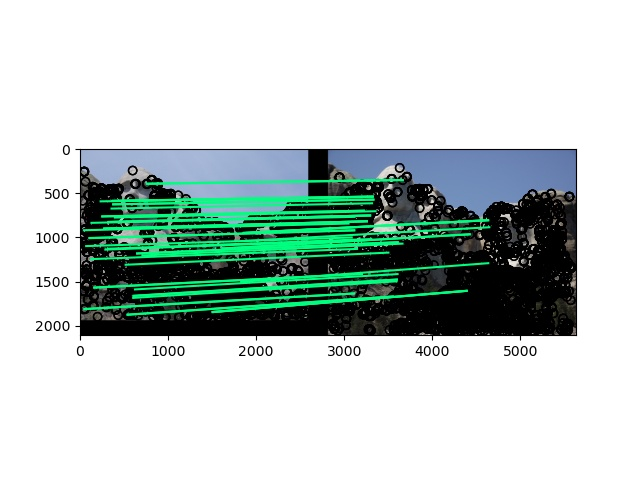
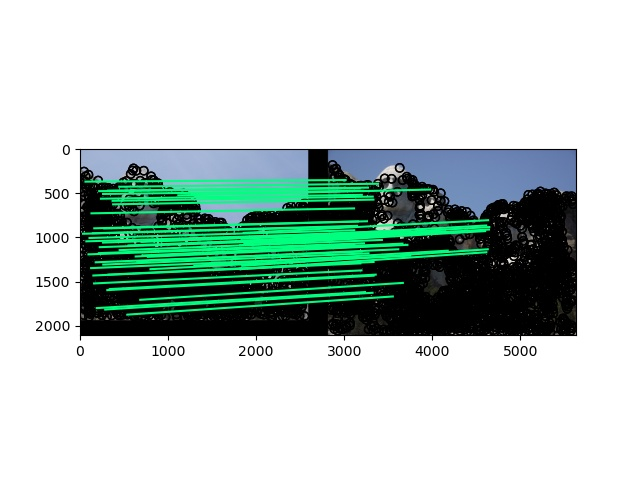
DONE T.T

Changed region(s): [[0.125, 0.3125, 0.9062, 0.7188], [0.8125, 0.5625, 0.9062, 0.6875], [0.875, 0.5, 0.9062, 0.5312]]

diff --git a/Local Feature Matching/code/student.py b/Local Feature Matching/code/student.py
@@ -23,17 +23,10 @@ def getSobelFilter(axis = 1):
                         [0, 0, 0],
                         [-1, -2, -1]])
 
-def getDistanceMatrix(features1, features2, featureNumber1, featureNumber2):
-    expandedFeatures1 = np.repeat(features1, repeats = featureNumber2, axis = 0)
-    expandedFeatures1 = expandedFeatures1 - np.tile(features2, (featureNumber1, 1))
-
-    expandedFeatures1 = expandedFeatures1 ** 2
-    return np.sqrt(expandedFeatures1.sum(axis = 1).reshape((featureNumber1, featureNumber2)))
-
 def getDistanceArray(features1, features2):
     temp = features2 -features1
     temp = temp ** 2
-    return np.sqrt(np.sum(temp, axis=1))
+    return np.sqrt(np.sum(temp, axis = 1))
 
 def getNormalizedPatches(image, x, y, featureWidth = 16):
     rowNumber = image.shape[0]
@@ -76,7 +69,7 @@ def getScaleInvariantFeature(image, x, y, featureWidth = 16):
     for i in range(8):
         imageOctave[i, :] = np.array(convolve2d(image, sobelFilterOctave[i], mode = 'same'))
 
-    print("AAAAAAA")
+
     imageOctave = np.array([convolve2d(x, gaussianFilter, mode = 'same') for x in imageOctave])
     features = np.ones((len(x), 128), dtype = 'float32')
     for i in range(len(x)):
@@ -89,23 +82,9 @@ def getScaleInvariantFeature(image, x, y, featureWidth = 16):
             bottomBound = np.uint16(y[i]) + offset
             featureWindow = np.array(imageOctave[:, topBound : bottomBound, leftBound : rightBound])
             histogram = np.array([])
-            # for j in range(8):
-            #     layerImage = np.array(imageOctave[j])
-            #     featureWindow = np.array(layerImage[topBound : bottomBound, leftBound : rightBound])
-            #     # featureWindow = np.split(featureWindow, 4, axis=0)
-            #     # featureWindow = np.array([np.split(x, 4, axis = 1) for x in featureWindow])
-            #     # histogramPart = (np.array([[y.sum() for y in x] for x in featureWindow])).flatten()
-            #     # for k in range(16):
-            #     #     histogram[0, j + 8 * k] = histogramPart[k]
-            #     c = j
-            #     for m in range(4):
-            #         for n in range(4):
-            #             cellWindow = featureWindow[4*m : 4*m + cell, 4*n : 4*n + cell]
-            #             histogram[0, c] = np.sum(cellWindow)
-            #             c = c + 8
             for m in range(4):
                 for n in range(4):
-                    cellWindow = np.sum(np.sum(featureWindow[:, 4*m : 4 *m + cell, 4*n:4*n+cell], axis = 1), axis = 1).flatten()
+                    cellWindow = np.sum(np.sum(featureWindow[:, 4 * m : 4 * m + cell, 4 * n : 4 * n + cell], axis = 1), axis = 1).flatten()
                     histogram = np.concatenate((histogram, cellWindow), axis = None)
             histogram = histogram / np.linalg.norm(histogram)
             features[i, :] = histogram
@@ -153,10 +132,8 @@ def get_interest_points(image, feature_width):
     '''
 
     # TODO: Your implementation here! See block comments and the project webpage for instructions
-    # smoothSmallFilter = getGaussianFilter(3, 1)
     smoothLargeFilter = getGaussianFilter(6, 1)
 
-    # smoothImage = convolve2d(image, smoothSmallFilter, mode = 'same')
     derivativeXImage = convolve2d(image, getSobelFilter(axis = 0), mode = 'same')
     derivativeYImage = convolve2d(image, getSobelFilter(axis = 1), mode = 'same')
 
@@ -173,21 +150,15 @@ def get_interest_points(image, feature_width):
 
     harrisMatrix = (derivativeXXImage * derivativeYYImage - derivativeXYImage ** 2) - lambdaValue * (derivativeXXImage + derivativeYYImage) ** 2
     
-    suppressMatrix = np.zeros(image.shape)
-    suppressMatrix[feature_width : image.shape[0] - feature_width, feature_width : image.shape[1] - feature_width] = 1
-
+    offset = int(feature_width / 2)
+    interestPoints = []
     localMaxima = np.zeros(image.shape)
-    suppressHarrisMatrix = harrisMatrix * 1
-    for i in range(feature_width, image.shape[0] - feature_width):
-        for j in range(feature_width, image.shape[1] - feature_width):
-            localMaxima[i, j] = np.max(suppressHarrisMatrix[i : i + feature_width, j : j + feature_width])
-
-    interestPoints =[]
+    suppressHarrisMatrix = harrisMatrix
     globalMaxima = np.max(suppressHarrisMatrix)
-    localMaxima = (localMaxima == suppressHarrisMatrix)
     for i in range(feature_width, image.shape[0] - feature_width):
         for j in range(feature_width, image.shape[1] - feature_width):
-            if(localMaxima[i, j]) and suppressHarrisMatrix[i, j] >= (globalMaxima * 0.005):
+            localMaxima[i, j] = np.max(suppressHarrisMatrix[i - offset : i + offset, j - offset : j + offset])
+            if(localMaxima[i, j] == suppressHarrisMatrix[i, j]) and suppressHarrisMatrix[i, j] >= (globalMaxima * 0.001):
                 interestPoints.extend([[i, j]])
 
     xs = np.array([item[0] for item in interestPoints])
@@ -296,8 +267,6 @@ def match_features(im1_features, im2_features):
     featureNumber1 = im1_features.shape[0]
     featureNumber2 = im2_features.shape[0]
     
-    # distanceMatrix = getDistanceMatrix(im1_features, im2_features, featureNumber1, featureNumber2)
-    # distanceMatrix = cdist(im1_features, im2_features, 'euclidean')
     distanceMatrix = np.array([getDistanceArray(x, im2_features) for x in im1_features])
 
     indexSortedMatrix = np.zeros((featureNumber1, featureNumber2))

diff --git a/Local Feature Matching/code/main.py b/Local Feature Matching/code/main.py
@@ -146,13 +146,13 @@ def main():
     # print(len(x1))
     # if you want to view your corners uncomment these next lines!
 
-    # plt.imshow(image1, cmap="gray")
-    # plt.scatter(x1, y1, alpha=0.9, s=3)
-    # plt.show()
+    plt.imshow(image1, cmap="gray")
+    plt.scatter(x1, y1, alpha=0.9, s=3)
+    plt.show()
 
-    # plt.imshow(image2, cmap="gray")
-    # plt.scatter(x2, y2, alpha=0.9, s=3)
-    # plt.show()
+    plt.imshow(image2, cmap="gray")
+    plt.scatter(x2, y2, alpha=0.9, s=3)
+    plt.show()
 
     print("Done!")
 

diff --git a/test.py b/test.py
@@ -59,9 +59,5 @@ def get_interest_points(image, feature_width):
 
     return ys, xs
 
-K = np.ones((8,8))
-A = np.array([np.ones((8,8)), 2*np.ones((8,8)), 3*np.ones((8,8))])
-B = np.array([[1,2,3],[3,4,99],[5,6,9]])
-C = np.array(np.sum(np.sum(A[:,2:4,2:4], axis = 1), axis = 1))
-print(C)
-print(C.shape)
+A = np.array([1,2,3,4,5,6,7,8,9,10,11,12,13,14])
+print(A[3-2:3+2])
